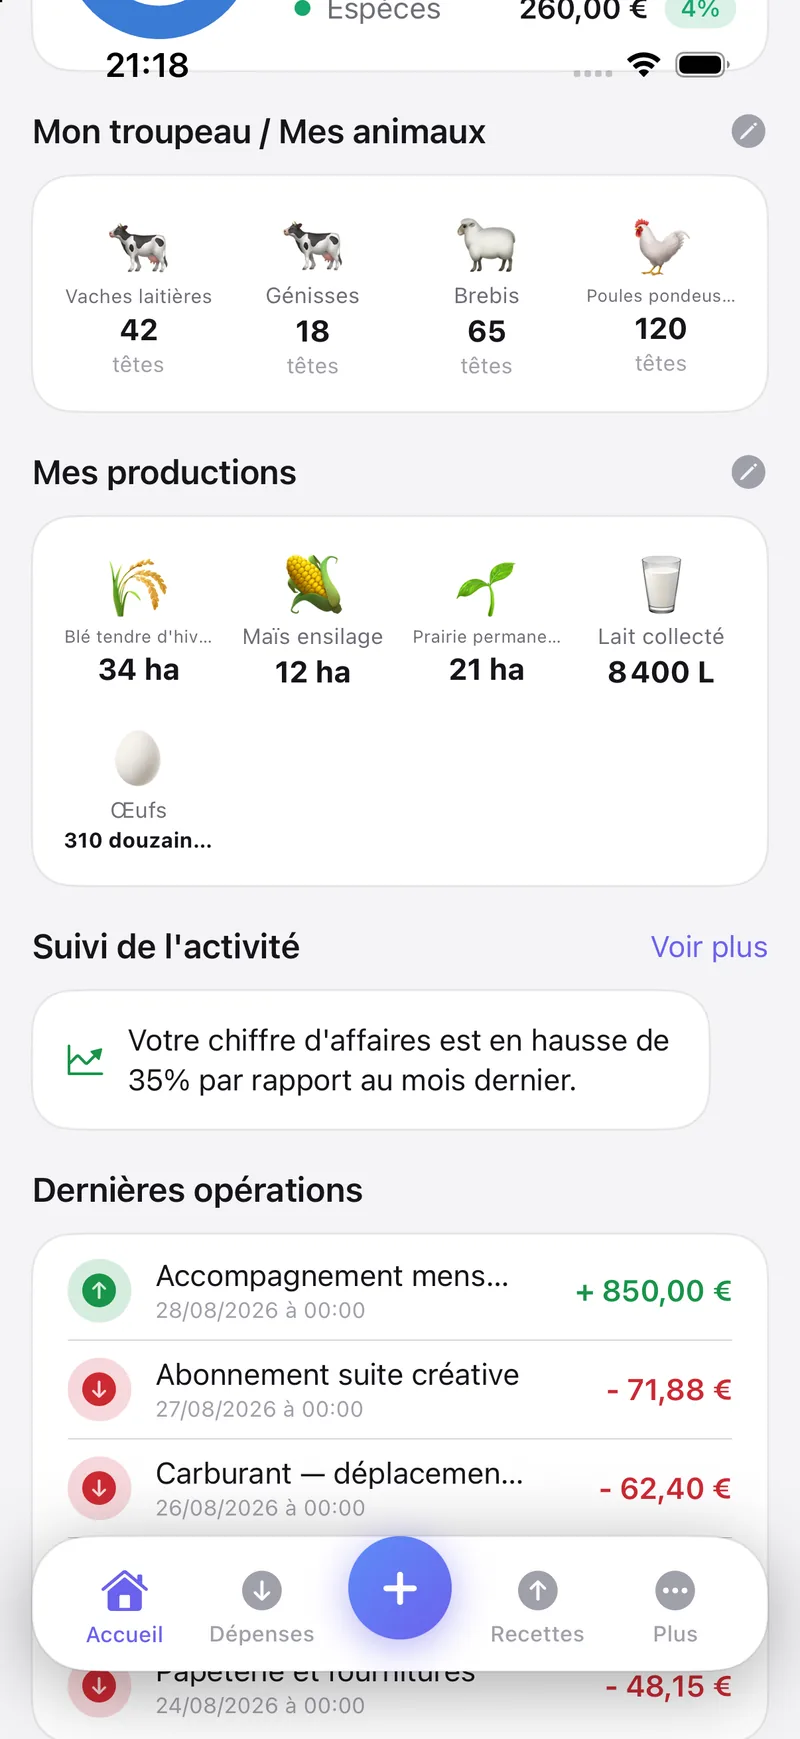
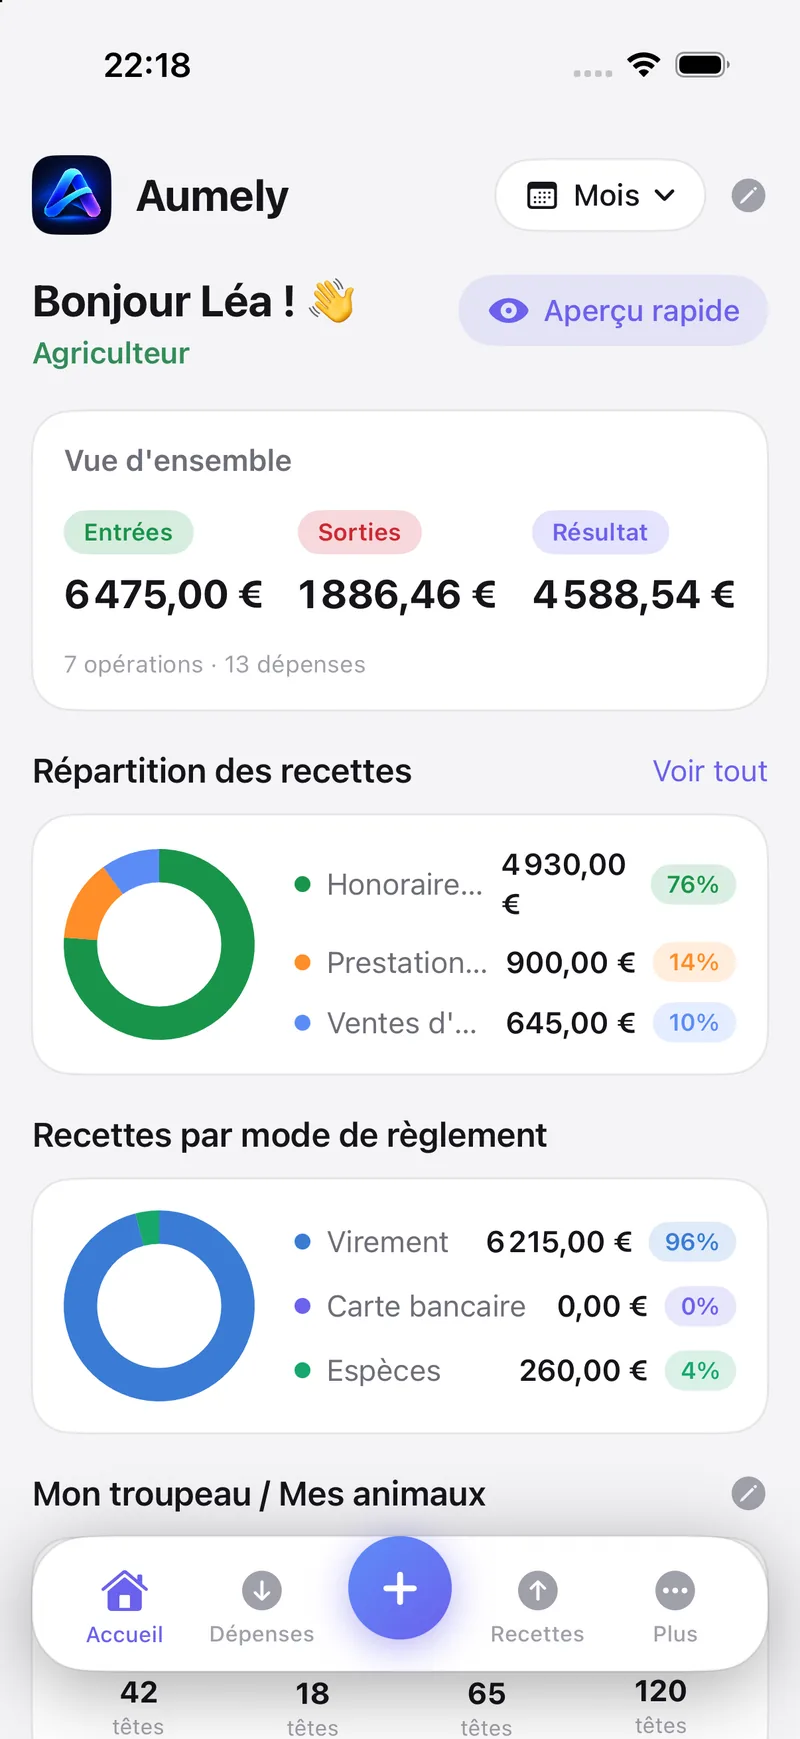
Corrige trois defauts visuels signales
1. L'APPAREIL DU HEROS ETAIT COUPE
Il devait deborder sur la bande suivante — c'est ce debordement qui
invite a defiler. Un « overflow: hidden » sur la section le tranchait
net : en CSS, couper un axe coupe aussi l'autre. Le halo du heros est
deja borne par left/right, la section n'avait donc rien a masquer.
Meme piege ecarte sur .chapeau.

2. LE PREMIER APPAREIL DES SCENES A DEUX AVAIT L'AIR TRONQUE
Le second le recouvrait de 46 px sans qu'aucune ombre ne dise lequel
etait devant : on lisait un ecran coupe, pas une mise en scene.
Chevauchement ramene a 30 px, et ombre laterale franche sur celui du
dessus. Vaut pour les cinq scenes du site.

3. LA CAPTURE AGRICOLE COMMENCAIT AU MILIEU D'UNE CARTE
Prise en cours de defilement, elle s'ouvrait sur un bout de carte
tranche, l'heure par-dessus. Refaite au simulateur, calee pour que le
titre « Mon troupeau / Mes animaux » arrive sous la barre d'etat.

E-COMMERCE : UNE VRAIE CAPTURE DU PROFIL
La rubrique montrait un graphique d'analyses, rien qui ressemble a une
activite de vente en ligne. Elle montre desormais l'accueil reellement
regle sur ce profil, produit par le jeu de demonstration e-commerce de
l'application : repartition entre Amazon, Shopify, eBay et vente
directe, et les versements de chaque plateforme.

Toutes les captures viennent du simulateur, aucun contenu retouche.

diff --git a/_source/pages/pour-qui.html b/_source/pages/pour-qui.html
@@ -167,7 +167,7 @@ fichier: pour-qui.html
         </p>
         <ul class="points">
           <li>Vos <strong>plateformes de vente</strong>, à choisir et à compléter vous-même.</li>
-          <li>La part de chacune dans votre <strong>chiffre d’affaires</strong>.</li>
+          <li>La <strong>part de chacune</strong> dans votre chiffre d’affaires, en un graphique.</li>
           <li>Les <strong>commissions, abonnements et achats</strong> saisis comme dépenses classées.</li>
           <li>Le <strong>rapport mensuel</strong> avec la répartition par plateforme.</li>
         </ul>
@@ -178,9 +178,9 @@ fichier: pour-qui.html
         <div class="tel tel--sm" style="position: relative; z-index: 1;">
           <div class="tel__ecran">
             <picture>
-              <source srcset="assets/img/analyses-graph.webp" type="image/webp">
-              <img src="assets/img/analyses-graph.png"
-                   alt="Graphiques d’Aumely : courbe des entrées et sorties, prévision de fin de mois et répartition du chiffre d’affaires par canal."
+              <source srcset="assets/img/profil-ecommerce.webp" type="image/webp">
+              <img src="assets/img/profil-ecommerce.png"
+                   alt="Accueil d’Aumely réglé sur le profil E-commerce : répartition du chiffre d’affaires entre Amazon, Shopify, eBay et la vente directe, et derniers versements de chaque plateforme."
                    width="1206" height="2622" loading="lazy" decoding="async">
             </picture>
           </div>
@@ -264,9 +264,9 @@ fichier: pour-qui.html
         <div class="tel tel--sm" style="position: relative; z-index: 1;">
           <div class="tel__ecran">
             <picture>
-              <source srcset="assets/img/profil-agricole.webp" type="image/webp">
-              <img src="assets/img/profil-agricole.png"
-                   alt="Accueil d’Aumely réglé sur le profil Agriculteur : le troupeau (vaches laitières, génisses, brebis, poules) et les productions (blé tendre, maïs, prairie, lait, œufs) suivis à côté des recettes."
+              <source srcset="assets/img/agricole-troupeau.webp" type="image/webp">
+              <img src="assets/img/agricole-troupeau.png"
+                   alt="Accueil d’Aumely réglé sur le profil Agriculteur : le troupeau — vaches laitières, génisses, brebis, poules pondeuses — et les productions — blé tendre, maïs ensilage, prairie, lait collecté, œufs."
                    width="1206" height="2622" loading="lazy" decoding="async">
             </picture>
           </div>

diff --git a/pour-qui.html b/pour-qui.html
@@ -264,7 +264,7 @@
         </p>
         <ul class="points">
           <li>Vos <strong>plateformes de vente</strong>, à choisir et à compléter vous-même.</li>
-          <li>La part de chacune dans votre <strong>chiffre d’affaires</strong>.</li>
+          <li>La <strong>part de chacune</strong> dans votre chiffre d’affaires, en un graphique.</li>
           <li>Les <strong>commissions, abonnements et achats</strong> saisis comme dépenses classées.</li>
           <li>Le <strong>rapport mensuel</strong> avec la répartition par plateforme.</li>
         </ul>
@@ -275,9 +275,9 @@
         <div class="tel tel--sm" style="position: relative; z-index: 1;">
           <div class="tel__ecran">
             <picture>
-              <source srcset="assets/img/analyses-graph.webp" type="image/webp">
-              <img src="assets/img/analyses-graph.png"
-                   alt="Graphiques d’Aumely : courbe des entrées et sorties, prévision de fin de mois et répartition du chiffre d’affaires par canal."
+              <source srcset="assets/img/profil-ecommerce.webp" type="image/webp">
+              <img src="assets/img/profil-ecommerce.png"
+                   alt="Accueil d’Aumely réglé sur le profil E-commerce : répartition du chiffre d’affaires entre Amazon, Shopify, eBay et la vente directe, et derniers versements de chaque plateforme."
                    width="1206" height="2622" loading="lazy" decoding="async">
             </picture>
           </div>
@@ -361,9 +361,9 @@
         <div class="tel tel--sm" style="position: relative; z-index: 1;">
           <div class="tel__ecran">
             <picture>
-              <source srcset="assets/img/profil-agricole.webp" type="image/webp">
-              <img src="assets/img/profil-agricole.png"
-                   alt="Accueil d’Aumely réglé sur le profil Agriculteur : le troupeau (vaches laitières, génisses, brebis, poules) et les productions (blé tendre, maïs, prairie, lait, œufs) suivis à côté des recettes."
+              <source srcset="assets/img/agricole-troupeau.webp" type="image/webp">
+              <img src="assets/img/agricole-troupeau.png"
+                   alt="Accueil d’Aumely réglé sur le profil Agriculteur : le troupeau — vaches laitières, génisses, brebis, poules pondeuses — et les productions — blé tendre, maïs ensilage, prairie, lait collecté, œufs."
                    width="1206" height="2622" loading="lazy" decoding="async">
             </picture>
           </div>

diff --git a/assets/css/site.css b/assets/css/site.css
@@ -661,7 +661,9 @@ body.menu-ouvert{ overflow: hidden; }
   position: relative;
   padding: 46px 0 0;
   background: linear-gradient(180deg, #FBFAFF 0%, var(--brume-2) 62%, #EAF0FF 100%);
-  overflow: hidden;
+  /* Surtout PAS d'overflow caché ici : le bas de l'appareil doit
+     déborder sur la bande suivante, c'est ce débordement qui invite à
+     défiler. Le halo, lui, est déjà borné par « left: 0; right: 0 ». */
 }
 .heros__halo{
   position: absolute;
@@ -1115,7 +1117,16 @@ a.ressource:hover{
 
 /* Le second appareil d'une scène à deux : décalé et abaissé, pour
    composer une scène plutôt qu'un alignement plat. */
-.tel--decale{ margin-left: -46px; margin-top: 44px; }
+.tel--decale{
+  margin-left: -30px;
+  margin-top: 46px;
+  /* L'ombre latérale détache l'appareil de celui qu'il recouvre :
+     sans elle, le premier avait l'air coupé au couteau. */
+  box-shadow:
+    -18px 20px 34px -20px rgba(15,14,28,.5),
+    0 44px 80px -30px rgba(15,14,28,.40),
+    0 12px 24px -12px rgba(15,14,28,.24);
+}
 @media (max-width: 619px){ .tel--decale{ margin: 0; } }
 
 
@@ -1142,7 +1153,15 @@ a.ressource:hover{
    largeur de l'écran. On le coupe au niveau de la section — `clip`
    plutôt que `hidden`, qui n'installe pas de conteneur de
    défilement et laisse donc l'en-tête collant fonctionner. */
-.section, .profil, .preuves, .heros, .chapeau{ overflow-x: clip; }
+/* ATTENTION : `overflow-x: clip` coupe AUSSI le débordement vertical
+   (la spec CSS ne laisse pas un axe en « visible » quand l'autre ne
+   l'est pas). On ne l'applique donc qu'aux sections qui n'ont rien à
+   faire dépasser — surtout pas au héros, dont l'appareil doit déborder
+   sur la bande suivante pour inviter à défiler. */
+.section, .profil, .preuves{ overflow-x: clip; }
+
+/* Le halo du héros est déjà borné par `left: 0; right: 0` : il ne
+   déborde pas horizontalement, la section n'a donc rien à couper. */
 
 
 /* ══════════════════════════════════════════════════════════════
